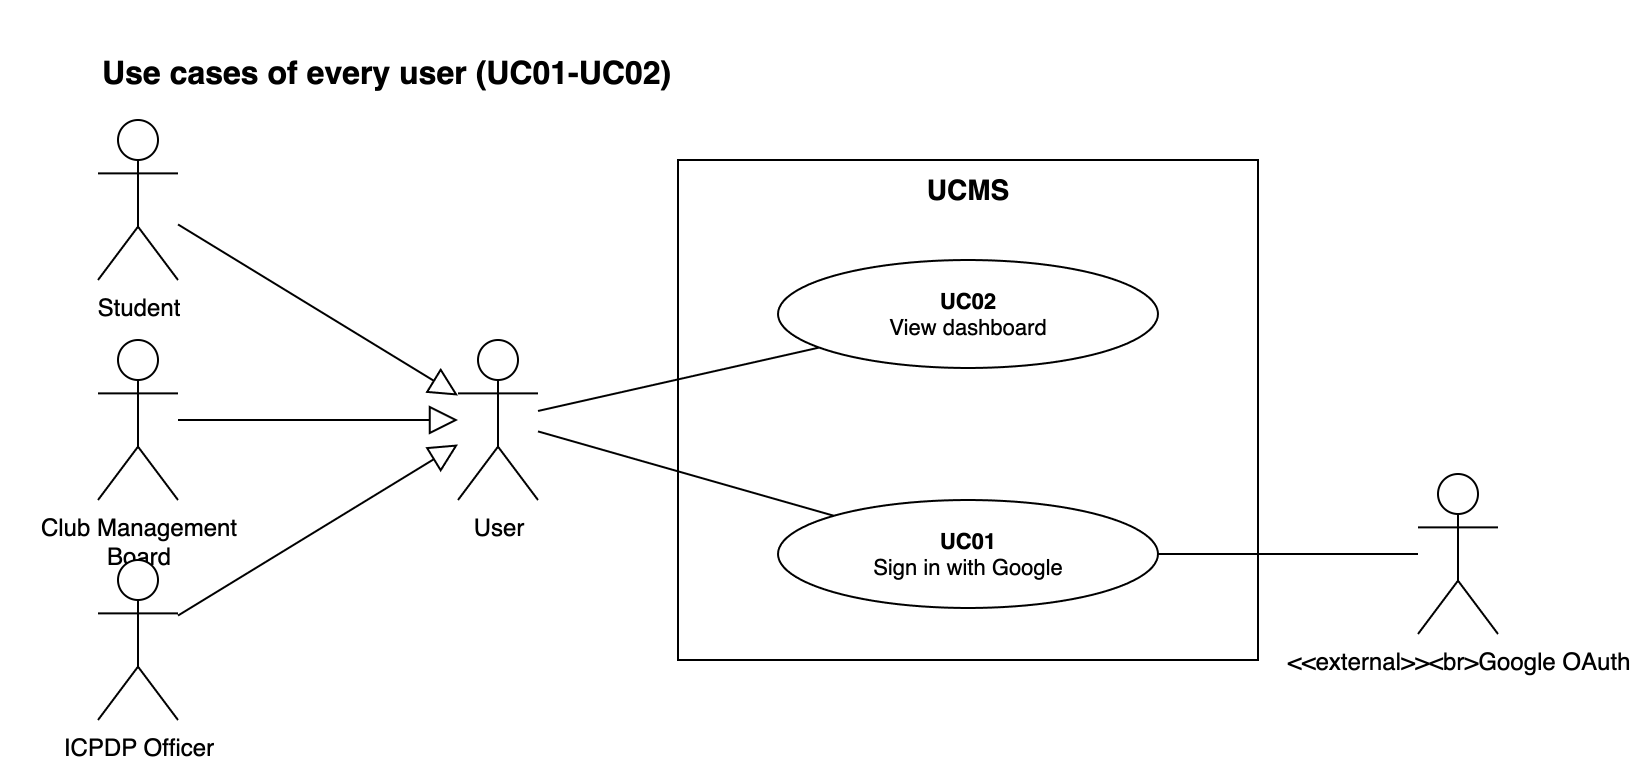
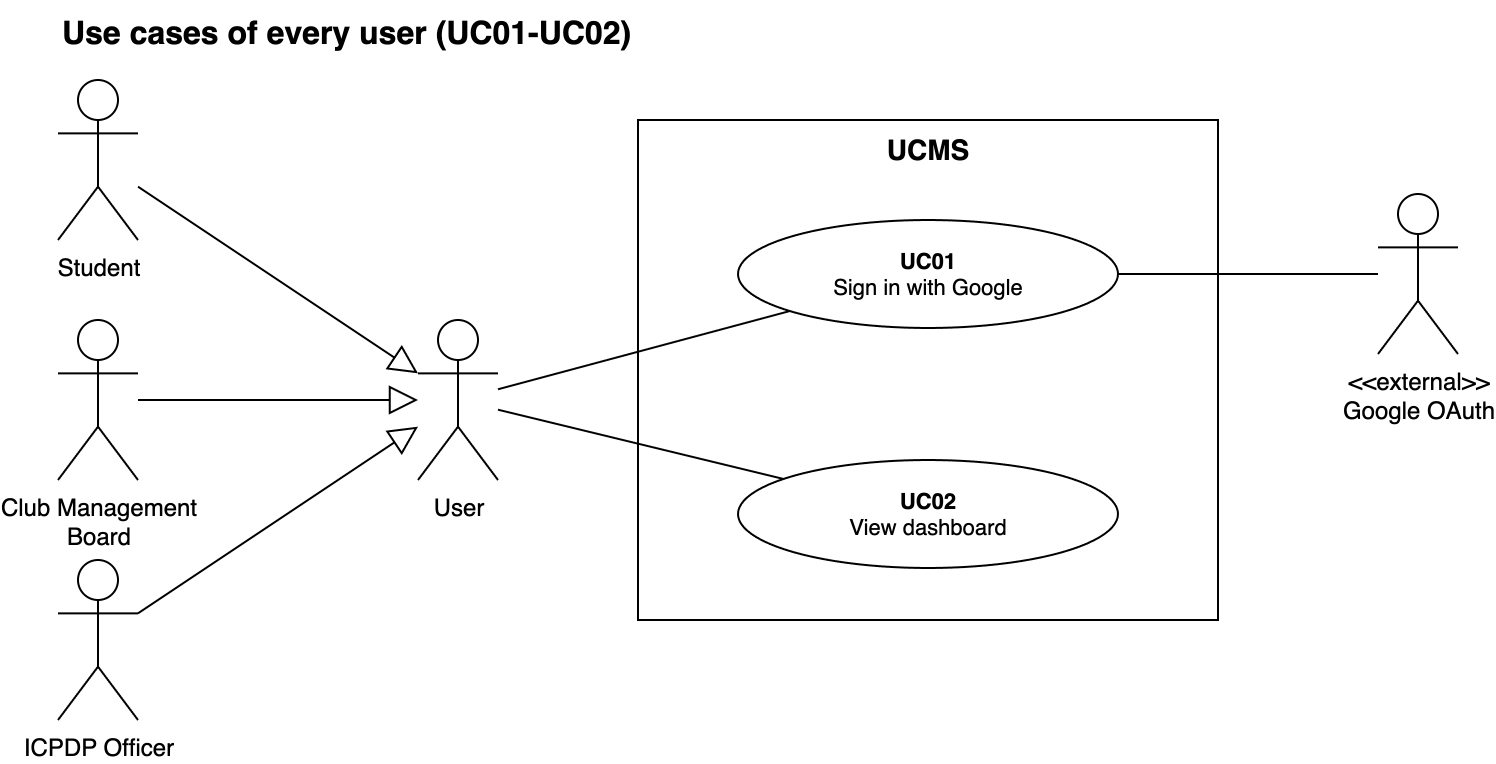
docs(diagrams): fix the All users page rendering (I29)
- Google OAuth label was double-escaped and showed a literal <br>.
- Put UC01 above UC02 so the page reads in order.
- Space the left-hand actors so the CMB label no longer overlaps ICPDP.
- Review tracker: add I29 with the points kept as they are.

diff --git a/docs/UCMS_Review_Issues.md b/docs/UCMS_Review_Issues.md
@@ -54,6 +54,7 @@ Ngày review: 2026-09-23.
 | I26 | 🟡 | Khung Phase 1/2 lỗi thời: mọi UC ra cùng lúc nhưng tài liệu vẫn chia phase và dựa vào đó để hoãn hành vi | Model §4–§8, §10.7–10.11, BR16/BR42/BR43, §12, §13, D2; Spec phần đầu, bảng UC, UC04/UC08/UC26/UC36/UC37/UC49, cuối Spec | Đã sửa | Xóa mọi nhãn Phase; giữ duyệt đa cấp qua UC05 (BR16 có hiệu lực); BR43 rút lại; §12 thành Release scope; §13 coverage đầy đủ |
 | I27 | 🟡 | `«extend»` trên trang Student vẽ điều hướng giao diện (UC17/UC29 → UC06; UC22/UC29/UC31/UC50 → UC24) | UCD Student, Spec UC24 | Đã sửa | Xoá 6 cạnh «extend»; Student chỉ còn association tới 9 UC; Spec UC24 bước 3 ghi rõ là điều hướng; huỷ cách sửa của I12 |
 | I28 | 🟡 | `«extend»` vẽ cascade hệ thống: `UC28 / UC49 → UC15`, `UC42 → UC49`; UC của ICPDP mượn sang trang CMB 3 | UCD CMB 3, ICPDP 1, ICPDP 3; Spec UC15 | Đã sửa | Xoá 3 loại cạnh và các node mượn; cascade ghi ở Postconditions UC15 (Spec UC28 A1, UC49 A1 đã có); giữ `UC47 «extend» UC25`, `UC49 «extend» UC28` |
+| I29 | 🟢 | Trang All users: nhãn Google OAuth hiện nguyên `<br>`; UC02 nằm trên UC01; nhãn actor CMB đè lên actor ICPDP | UCD All users | Đã sửa | Sửa escape nhãn; đảo vị trí UC01/UC02; giãn 3 actor. Giữ tên "Sign in with Google" và actor hình người |
 
 ---
 
@@ -680,3 +681,30 @@ Ngày review: 2026-09-23.
   - Lý do: UCD chỉ giữ quan hệ mà actor thực sự đi qua; cascade và tín hiệu bất đồng bộ thuộc về
     Spec (Postconditions, Alternative Flows) hoặc sơ đồ activity/state.
   - Chưa sửa: `UCMS_UseCase_Specifications_v2.docx` cần xuất lại từ `.md`.
+
+### I29 — Lỗi hiển thị trang All users
+- **Vấn đề (review lần 3):**
+  1. Nhãn actor hiện `<<external>><br>Google OAuth`: value bị escape hai lần nên `<br>` in ra
+     nguyên văn.
+  2. UC02 nằm trên UC01, đọc ngược thứ tự.
+  3. (Phát hiện thêm) nhãn hai dòng "Club Management Board" đè lên đầu actor ICPDP Officer.
+  - Review còn đề nghị: đổi Google OAuth sang hình hộp / stereotype `«secondary»`; đổi "Sign in
+    with Google" → "Sign in"; thêm quan hệ UC02–UC01. **Không sửa:**
+    - UML cho phép hệ thống ngoài làm actor; vai trò supporting đã thể hiện bằng vị trí bên phải
+      và association chỉ với UC01; `«secondary»` không phải stereotype chuẩn; `«external»` khớp
+      Model §3 (Supporting: Google OAuth, ES1).
+    - Đăng nhập chỉ qua Google là ràng buộc nghiệp vụ (UC01: "Access without in-house
+      passwords"), và tên UC trên UCD phải khớp Model/Spec ("Authenticate via Google OAuth …",
+      cùng nguyên tắc I13).
+    - UC02–UC01 đã xử lý ở I11: UC01 là precondition của UC02 (Spec UC02).
+- **Cách sửa đề xuất:** sửa escape, đảo hai oval, giãn actor.
+- **Xử lý:**
+  - Ngày: 2026-09-24
+  - File đã sửa: `diagrams/UCMS_UseCase_ByActor.drawio` — trang All users;
+    `diagrams/img/UCMS_UseCase_ByActor_01_All-users.png`.
+  - Thay đổi:
+    - `p0oauth` value: `&amp;lt;br&amp;gt;` → `&lt;br&gt;` — nhãn thành hai dòng `<<external>>` /
+      `Google OAuth`.
+    - `p0UC01` y 230 → 110, `p0UC02` y 110 → 230; `p0oauth` y 217 → 97 để ngang UC01.
+    - Actor: `p0a1` y 150 → 160, `p0a2` y 260 → 280, `p0user` y 150 → 160.
+  - Lý do: chỉ sửa lỗi hiển thị; ký hiệu và tên UC đã đúng chuẩn và khớp tài liệu.
